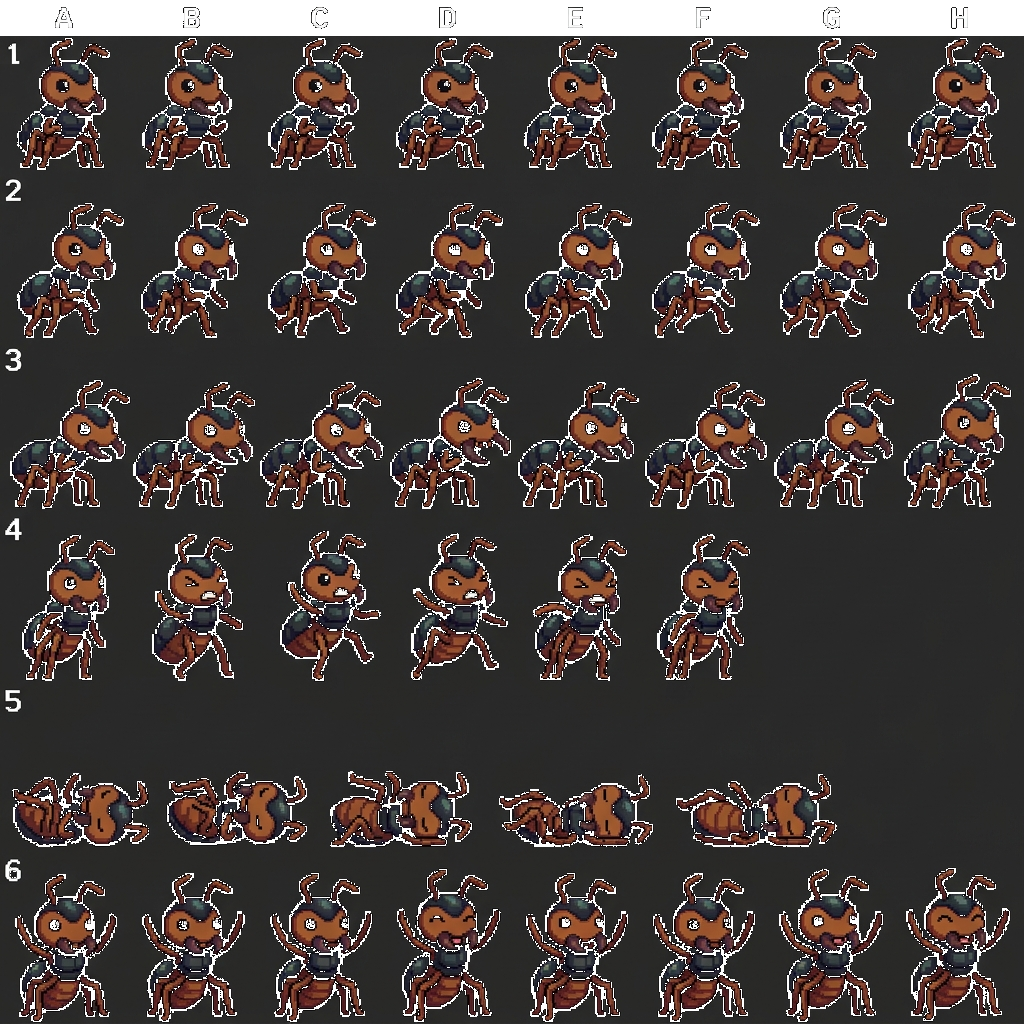
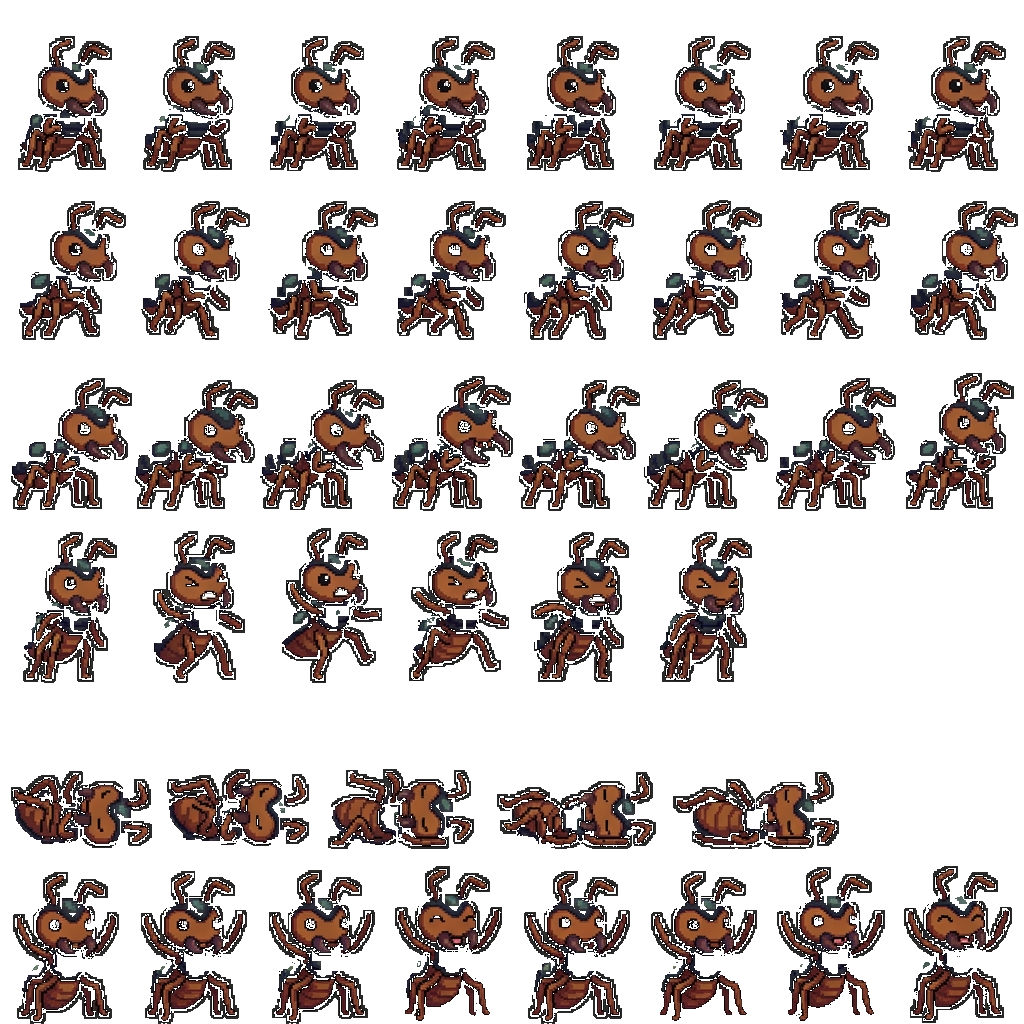
Fix transparent ant asset display

diff --git a/index.html b/index.html
@@ -1096,26 +1096,23 @@
   .nest-crawling-ant {
     display: inline-block;
     width: 24px; height: 24px;
-    background-size: 144px 144px;
+    background-image: url('assets/icons_roles.png');
+    background-size: 300% 300%;
     image-rendering: pixelated;
     background-repeat: no-repeat;
   }
   .nest-crawling-ant.forager {
-    background-image: url('assets/ant_worker_forager_sheet.png');
-    animation: playAntSwarmer 0.6s steps(6) infinite;
+    background-position: 0% 0%;
   }
   .nest-crawling-ant.excavator {
-    background-image: url('assets/ant_excavator_sheet.png');
-    animation: playAntSwarmer 0.8s steps(6) infinite;
+    background-position: 50% 0%;
   }
   .nest-crawling-ant.soldier {
-    background-image: url('assets/ant_soldier_sheet.png');
-    animation: playAntSwarmer 0.7s steps(6) infinite;
+    background-position: 100% 0%;
   }
   .nest-crawling-ant.nurse {
-    background-image: url('assets/ant_worker_forager_sheet.png');
+    background-position: 0% 0%;
     filter: sepia(0.5) hue-rotate(90deg);
-    animation: playAntSwarmer 0.8s steps(6) infinite;
   }
   
   @keyframes crawlLeftRight {
@@ -1327,14 +1324,14 @@
 
   /* (legacy immersive-viewport styles removed — replaced by #colony-scene above) */
   /* Mobile conquest shell */
-  #top-bar { flex-direction: column; gap: 5px; padding: 5px 7px; }
-  #res-pills { display: grid; grid-template-columns: repeat(5, minmax(0, 1fr)); gap: 4px; }
-  .res-pill { flex-direction: column; align-items: center; gap: 1px; padding: 4px 2px; min-height: 44px; }
-  .rp-icon { font-size: 13px; line-height: 1; }
+  #top-bar { flex-direction: column; gap: 6px; padding: 7px 8px 6px; background: rgba(33,23,15,.96); box-shadow: 0 2px 12px rgba(0,0,0,.28); z-index: 5; }
+  #res-pills { display: grid; grid-template-columns: repeat(5, minmax(0, 1fr)); gap: 5px; }
+  .res-pill { flex-direction: column; align-items: center; gap: 1px; padding: 5px 3px; min-height: 46px; background: rgba(255,250,240,.09); border-color: rgba(255,255,255,.12); }
+  .rp-icon { display:none; }
   .rp-text { text-align: center; width: 100%; }
   .rp-val { font-size: 13px; }
   .rp-sub { font-size: 8px; white-space: nowrap; overflow: hidden; text-overflow: ellipsis; }
-  #speed-group { align-self: stretch; justify-content: center; }
+  #speed-group { align-self: stretch; justify-content: center; gap: 6px; }
   .tb-btn, #btn-settings-tb {
     min-width: 44px;
     min-height: 44px;
@@ -1343,20 +1340,43 @@
     justify-content: center;
   }
   #btn-settings-tb { width: 44px; padding: 6px 0; }
-  #viewport { height: 27vh; max-height: 230px; min-height: 168px; padding: 8px; }
+  #viewport { height: 38vh; max-height: 310px; min-height: 220px; padding: 0; }
   #colony-scene, #map-viewport { height: 100%; }
   #map-viewport { height: 100%; }
-  #tab-bar { order: 4; }
-  .tab-btn { min-height: 48px; padding: 8px 0 7px; font-size: 13px; }
-  #deck { min-height: 0; }
-  #deck-scroll { padding: 8px; gap: 0; }
-  .tab-panel { display: none; flex: 1; min-height: 0; overflow: hidden; }
+  #tab-bar {
+    order: 5;
+    position: sticky;
+    bottom: 0;
+    z-index: 6;
+    display: grid;
+    grid-template-columns: repeat(5, minmax(0, 1fr));
+    gap: 0;
+    border-top: 1px solid rgba(255,255,255,.12);
+    box-shadow: 0 -8px 20px rgba(0,0,0,.25);
+  }
+  .tab-btn { min-height: 58px; padding: 6px 0 7px; font-size: 0; border-bottom: none; border-top: 3px solid transparent; }
+  .tab-btn::before { display:block; font-size:20px; line-height:1.1; margin-bottom:3px; }
+  .tab-btn::after { display:block; font-size:10px; font-weight:900; line-height:1; }
+  .tab-btn[data-tab="nest"]::before { content:"\2302"; }
+  .tab-btn[data-tab="nest"]::after { content:"Nest"; }
+  .tab-btn[data-tab="build"]::before { content:"\25A6"; }
+  .tab-btn[data-tab="build"]::after { content:"Build"; }
+  .tab-btn[data-tab="army"]::before { content:"\2694"; }
+  .tab-btn[data-tab="army"]::after { content:"Army"; }
+  .tab-btn[data-tab="campaign"]::before { content:"\25CE"; }
+  .tab-btn[data-tab="campaign"]::after { content:"Map"; }
+  .tab-btn[data-tab="evolution"]::before { content:"\2726"; }
+  .tab-btn[data-tab="evolution"]::after { content:"Evolve"; }
+  .tab-btn.active { border-top-color: var(--amber); border-bottom-color: transparent; background: rgba(216,154,74,.12); }
+  #deck { min-height: 0; background: #f4eadc; }
+  #deck-scroll { padding: 8px 8px 10px; gap: 0; }
+  .tab-panel { display: none; flex: 1; min-height: 0; overflow-y: auto; }
   .tab-panel.active { display: flex; flex-direction: column; gap: 7px; }
   .tab-panel:not(.active) { display: none !important; }
   .tab-panel.active { display: flex !important; }
   .compact-grid { display: grid; gap: 6px; }
-  .two-col { grid-template-columns: repeat(2, minmax(0, 1fr)); }
-  .panel-card { background: var(--surface); border: 1px solid var(--border); border-radius: 8px; padding: 8px; min-width: 0; }
+  .two-col { grid-template-columns: 1fr; }
+  .panel-card { background: var(--surface); border: 1px solid rgba(95,72,48,.28); border-radius: 8px; padding: 9px; min-width: 0; box-shadow: 0 1px 0 rgba(255,255,255,.75); }
   .tab-visual {
     height: 100%;
     width: 100%;
@@ -1373,7 +1393,7 @@
   .tab-visual-body { padding: 10px; color: #fff7e8; text-shadow: 0 1px 2px rgba(0,0,0,.65); }
   .tab-visual .mini-title { color: rgba(255,247,232,.82); margin-bottom: 3px; }
   .tab-visual .line-main, .tab-visual .line-sub { color: #fff7e8; white-space: normal; }
-  .loop-tracker { display: grid; grid-template-columns: repeat(4, minmax(0, 1fr)); gap: 4px; flex-shrink: 0; grid-column: 1 / -1; }
+  .loop-tracker { display: none; }
   .loop-step { min-height: 36px; border: 1px solid var(--border); border-radius: 8px; background: var(--surface); display: flex; align-items: center; justify-content: center; text-align: center; font-size: 9px; font-weight: 900; color: var(--text-dim); }
   .loop-step.active { background: var(--amber); border-color: var(--amber); color: var(--dark); }
   .loop-step.done { background: #eef6ec; border-color: #b7d492; color: #3d7834; }
@@ -1381,11 +1401,11 @@
   .action-card.critical { border-color: var(--red); background: #fdeae6; }
   .action-card button { margin-top: 7px; width: 100%; }
   .mini-title { font-size: 10px; text-transform: uppercase; color: var(--text-dim); letter-spacing: 0.04em; font-weight: 800; margin-bottom: 4px; }
-  .metric-row, .unit-row, .territory-row { display: flex; align-items: center; gap: 7px; min-height: 44px; border: 1px solid var(--border); border-radius: 8px; padding: 6px 7px; background: var(--surface); }
+  .metric-row, .unit-row, .territory-row { display: flex; align-items: center; gap: 8px; min-height: 48px; border: 1px solid rgba(95,72,48,.24); border-radius: 8px; padding: 7px 8px; background: var(--surface); }
   .metric-row .grow, .unit-row .grow, .territory-row .grow { flex: 1; min-width: 0; }
-  .line-main { font-size: 12px; font-weight: 800; white-space: nowrap; overflow: hidden; text-overflow: ellipsis; }
-  .line-sub { font-size: 10px; color: var(--text-dim); white-space: nowrap; overflow: hidden; text-overflow: ellipsis; }
-  .btn-small { min-width: 58px; min-height: 44px; border: 1px solid var(--border); border-radius: 8px; background: var(--surface); color: var(--text); font-size: 11px; font-weight: 800; }
+  .line-main { font-size: 13px; font-weight: 850; white-space: normal; overflow: visible; text-overflow: clip; line-height: 1.18; }
+  .line-sub { font-size: 11px; color: var(--text-dim); white-space: normal; overflow: visible; text-overflow: clip; line-height: 1.2; }
+  .btn-small { min-width: 64px; min-height: 44px; border: 1px solid var(--border); border-radius: 8px; background: var(--surface); color: var(--text); font-size: 11px; font-weight: 850; }
   .btn-close { min-height: 44px; }
   .btn-small.ready { background: var(--amber); border-color: var(--amber); color: var(--dark); }
   .btn-small.danger { background: var(--red); border-color: var(--red); color: white; }
@@ -1393,7 +1413,7 @@
   .btn-small.info { background: #eef6ec; border-color: #b7d492; color: #3d7834; }
   .res-pill.critical { background: #4a211b; border-color: var(--red); }
   .res-pill.critical .rp-val, .res-pill.critical .rp-sub { color: #ffd4cb; }
-  .slot-grid { flex: 1; display: grid; grid-template-columns: repeat(2, minmax(0, 1fr)); grid-template-rows: repeat(3, minmax(0, 1fr)); gap: 6px; min-height: 0; }
+  .slot-grid { flex: 0 0 auto; display: grid; grid-template-columns: repeat(3, minmax(0, 1fr)); grid-template-rows: repeat(2, 76px); gap: 6px; min-height: 0; }
   .slot-card { position: relative; overflow: hidden; border: 1px solid var(--border); border-radius: 8px; background: #fffaf0; padding: 7px; min-height: 0; }
   .slot-card.locked { opacity: 0.55; background: #ece3d6; }
   .slot-card.building { border-color: var(--amber); }
@@ -1403,8 +1423,8 @@
   .slot-card .slot-state { font-size: 9px; color: var(--text-dim); margin-top: 3px; }
   .timer-mini { height: 5px; background: #eadcc8; border-radius: 99px; overflow: hidden; margin-top: 5px; }
   .timer-mini > div { height: 100%; background: var(--amber); }
-  #chamber-picker { flex-shrink: 0; display: grid; grid-template-columns: repeat(2, minmax(0, 1fr)); gap: 5px; }
-  .picker-btn { min-height: 44px; padding: 5px; border-radius: 8px; border: 1px solid var(--border); background: var(--surface); font-size: 9px; font-weight: 800; color: var(--text); overflow: hidden; }
+  #chamber-picker { flex-shrink: 0; display: grid; grid-template-columns: 1fr; gap: 6px; }
+  .picker-btn { min-height: 48px; padding: 7px; border-radius: 8px; border: 1px solid var(--border); background: var(--surface); font-size: 11px; font-weight: 850; color: var(--text); overflow: hidden; text-align:left; }
   .picker-btn:disabled { opacity: 0.38; }
   #army-list { display: grid; gap: 5px; }
   .unit-role { display: inline-block; color: var(--text); font-weight: 800; }
@@ -1417,7 +1437,7 @@
   .nest-assign-row { display: grid; grid-template-columns: minmax(0,1fr) 44px 32px 44px; align-items: center; gap: 5px; min-height: 44px; border: 1px solid var(--border); border-radius: 8px; background: var(--surface); padding: 5px 6px; }
   .nest-assign-main { min-width: 0; }
   .nest-assign-count { font-size: 16px; font-weight: 900; text-align: center; font-variant-numeric: tabular-nums; }
-  #campaign-list { flex: 1; min-height: 0; display: grid; gap: 5px; }
+  #campaign-list { flex: 1; min-height: 0; display: grid; gap: 6px; }
   .territory-row.claimed { border-color: #b7d492; background: #f3f8ed; }
   .territory-row.locked { opacity: 0.48; }
   #battle-log-inline { flex-shrink: 0; max-height: 52px; overflow: hidden; display: grid; gap: 4px; }
@@ -1426,7 +1446,7 @@
     #top-bar { gap: 4px; padding: 4px 7px; }
     .res-pill { min-height: 40px; padding: 3px 2px; }
     .tb-btn, #btn-settings-tb { min-height: 40px; }
-    #viewport { height: 23vh; min-height: 132px; }
+    #viewport { height: 32vh; min-height: 180px; }
     .panel-card { padding: 6px; }
     .metric-row, .unit-row, .territory-row { min-height: 42px; padding: 5px 6px; }
     .line-main { font-size: 11px; }
@@ -4082,10 +4102,10 @@ function renderVisual() {
     }
   }
   scene.innerHTML = `
-    <div class="panel-card" style="position:relative; width:100%; height:100%; background-image:linear-gradient(rgba(255,250,240,.75),rgba(255,250,240,.75)),url('${img}'); background-size:cover; background-position:center; display:flex; align-items:end; overflow:hidden;">
-      <div style="z-index:2; padding:10px;">
+    <div class="tab-visual" style="position:relative; width:100%; height:100%; background-image:linear-gradient(180deg,rgba(22,14,8,.06),rgba(22,14,8,.55)),url('${img}'); background-size:cover; background-position:center; display:flex; align-items:flex-end; overflow:hidden;">
+      <div class="tab-visual-body" style="z-index:2;">
         <div class="mini-title">${activeTab}</div>
-        <div class="line-main">${fmtInt(totalPop(G))} ants, ${claimedCount()} claimed</div>
+        <div class="line-main">${fmtInt(totalPop(G))} ants · ${claimedCount()} claimed</div>
         <div class="line-sub">${activeText()}</div>
       </div>
       <div class="crawling-container" style="position:absolute; inset:0; pointer-events:none; z-index:1;">
@@ -4197,7 +4217,11 @@ function renderStatus(){const strip=document.getElementById('status-strip'); if(
 function renderNest(){
   const r=getNetRates(G), b=bonuses(), el=document.getElementById('nest-summary'), action=nextAction();
   const tribute=`+${fmt1(r.tribute.food)}/s food, +${fmt1(r.tribute.materials)}/s mats, +${fmt1(r.tribute.chitin)}/s chitin${G.campaign.aphids?` (${fmtInt(G.campaign.aphids)} aphids)`:''}`;
-  if(el)el.innerHTML=renderLoopTracker()+[['Food Flow',`${r.netFood>=0?'+':''}${fmt1(r.netFood)}/s net`],['Timers',activeText()],['Territory',`${claimedCount()} claimed, food x${fmt1(b.foodMult)}`],['Tribute',tribute],['Idle Ants',`${fmtInt(unassigned(G))} available`]].map(x=>`<div class="metric-row"><div class="grow"><div class="line-main">${x[0]}</div><div class="line-sub">${x[1]}</div></div></div>`).join('')+renderNestAssignments();
+  if(el)el.innerHTML=[
+    ['Colony',`${G.status}. ${fmtInt(unassigned(G))} idle / cap ${popCap(G)}`],
+    ['Production',`Food ${r.netFood>=0?'+':''}${fmt1(r.netFood)}/s · Mats +${fmt1(r.matsRate)}/s · Chitin +${fmt1(r.chitinRate)}/s`],
+    ['Territory',`${claimedCount()} claimed · Food x${fmt1(b.foodMult)} · Tribute ${tribute}`]
+  ].map(x=>`<div class="metric-row"><div class="grow"><div class="line-main">${x[0]}</div><div class="line-sub">${x[1]}</div></div></div>`).join('')+renderNestAssignments();
   const card=document.getElementById('next-action')?.closest('.panel-card');
   if(card)card.className=`panel-card action-card ${action.kind==='critical'?'critical':''}`;
   const n=document.getElementById('next-action'); if(n)n.innerHTML=`<div>${action.label}</div><div class="line-sub">${action.detail}${action.tab===activeTab?'':`<button class="btn-small ready" data-next-tab="${action.tab}">Go to ${action.tab==='nest'?'Nest':action.tab[0].toUpperCase()+action.tab.slice(1)}</button>`}</div>`;